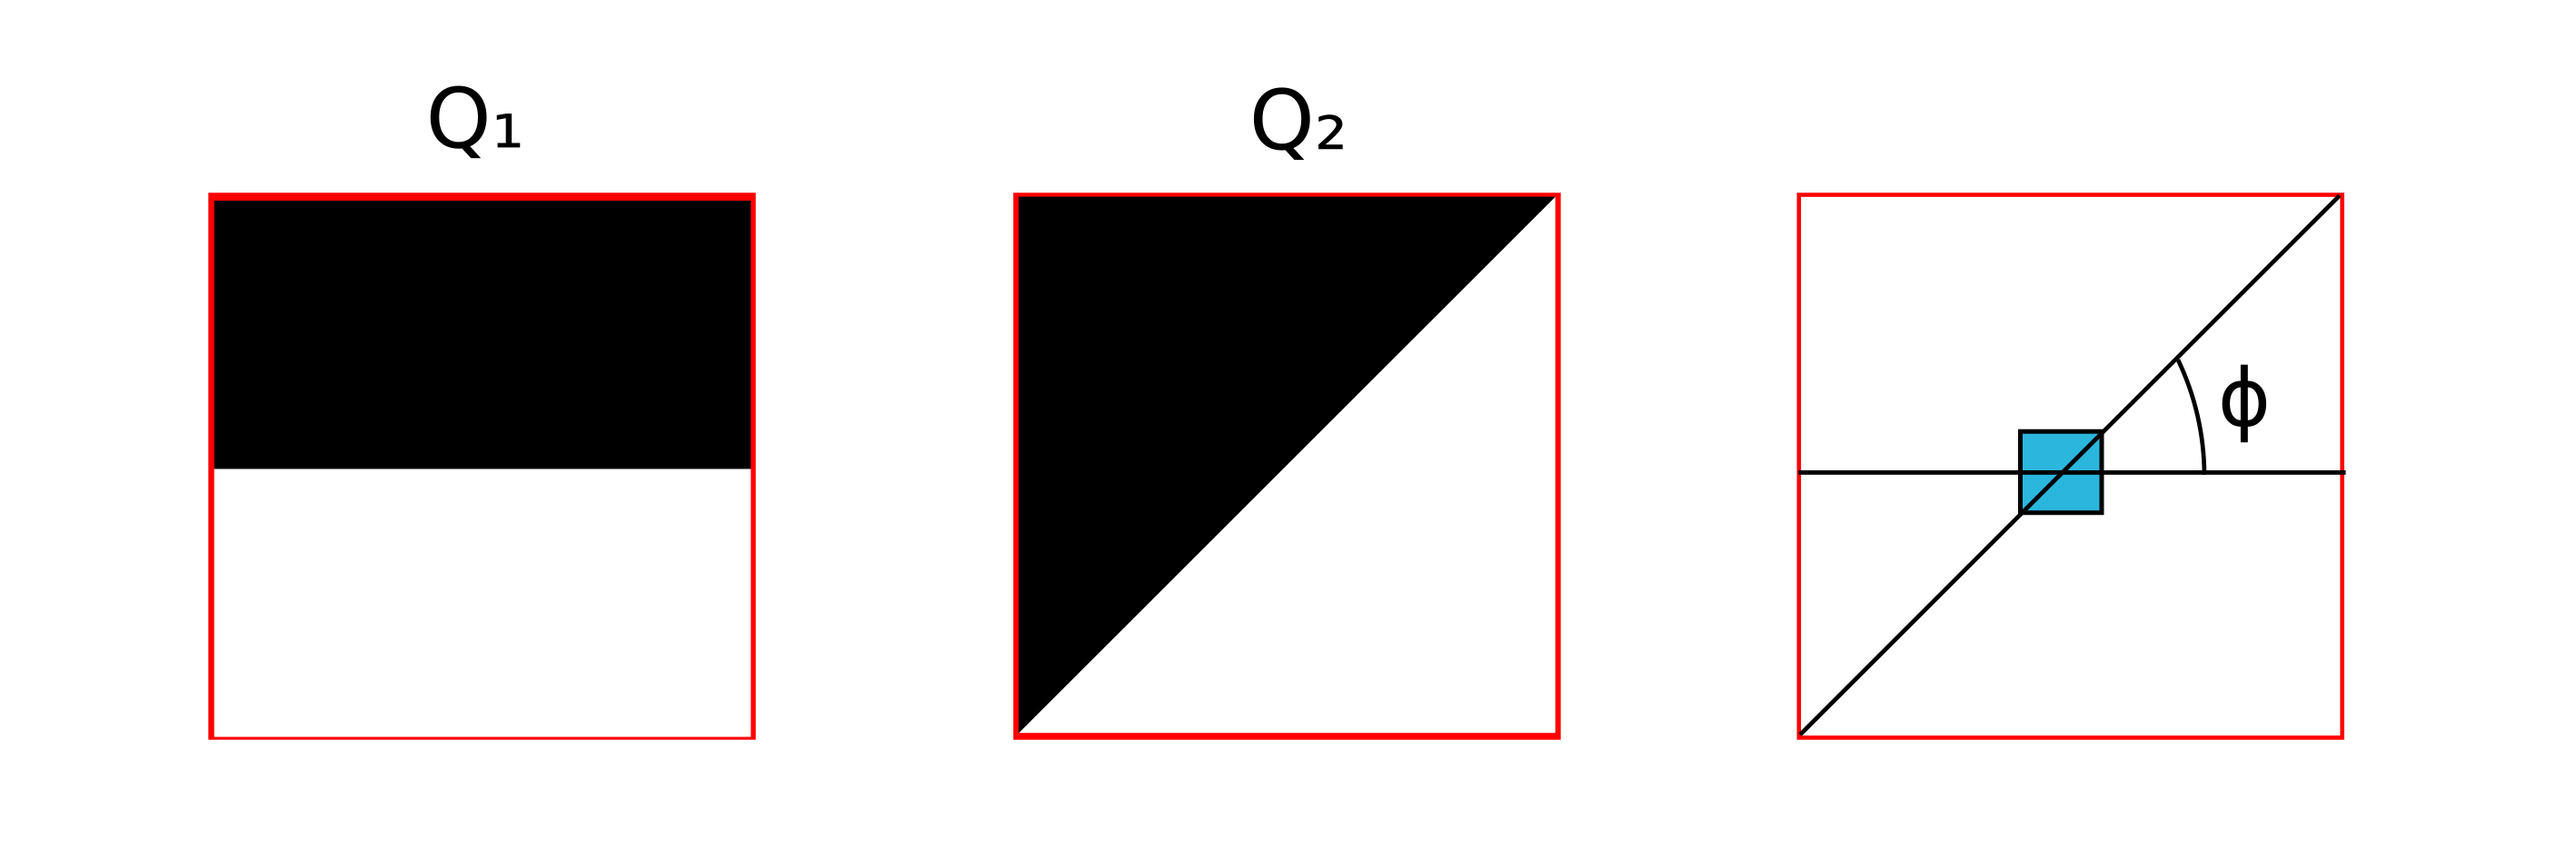
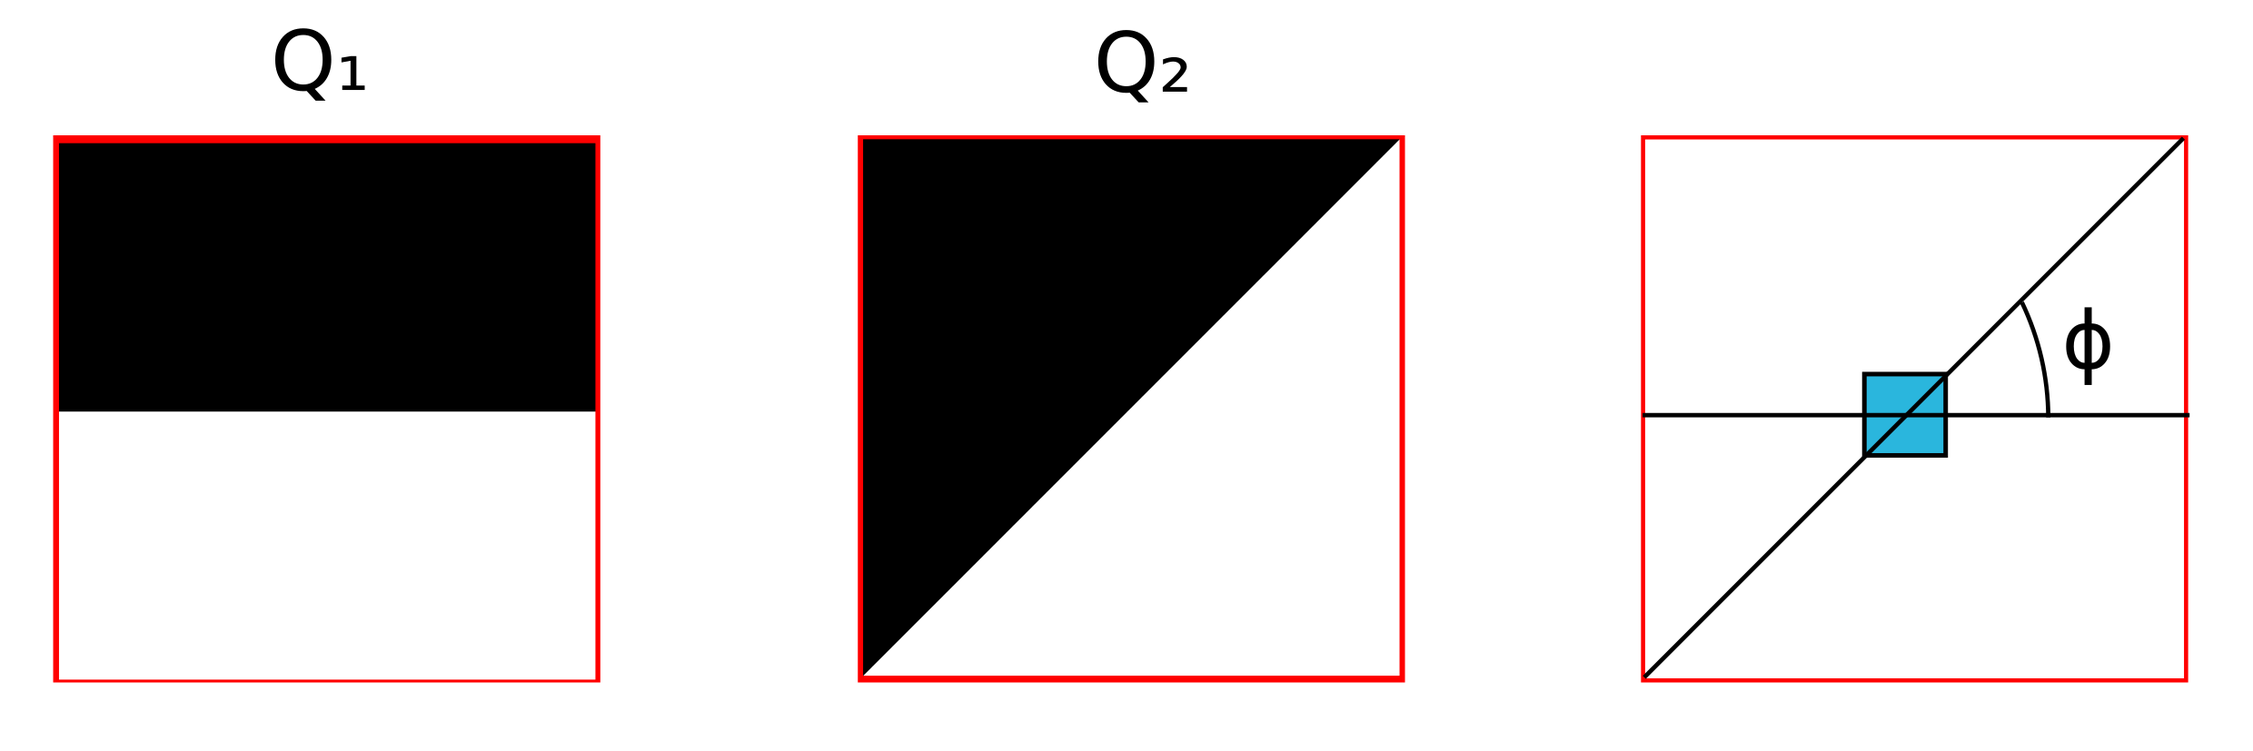
Change sizes of graphics

diff --git a/paper.tex b/paper.tex
@@ -365,7 +365,7 @@ $F_{sss}(r_1, r_2, \theta)$ and fix $\theta = \pi/2$. This leads us to a
 sampling pattern shown on \cref{fig:Fsss-pattern}
 \begin{figure}
   \centering
-  \includegraphics[width=0.8\linewidth]{images/pattern.png}
+  \includegraphics[width=0.6\linewidth]{images/pattern.png}
   \caption[]{Sampling pattern used for calculation of $F_{sss}$ in our
     implementation is a right triangle with fixed catets $r_1$ and $r_2$.
     Patterns can lie in planes $XY$ (as on the picture), $XZ$ or $YZ$. This
@@ -408,7 +408,7 @@ $30.45849$ in 2D and $172.96232$ in 3D case.
 
 \begin{figure}
   \centering
-  \includegraphics[width=0.8\linewidth]{images/experiment-setup.png}
+  \includegraphics[width=\linewidth]{images/experiment-setup.png}
   \caption[]{Left, center: images $Q_1$ and $Q_2$ used in the demonstration of
     approximation for $1 / \sin \phi$. Right: Interfaces between phases are
     line segments which intersect each other at angle $\phi$. Shaded area is
@@ -424,7 +424,7 @@ $1/\sin \phi$. As can be seen on \cref{fig:filter-comparison} $H'$ does this job
 better than $H$. Why this is important will be explained in \cref{sec:fss-2d}.
 \begin{figure}
   \centering
-  \includegraphics[width=0.8\linewidth]{images/filter-comparison.png}
+  \includegraphics[width=0.6\linewidth]{images/filter-comparison.png}
   \caption[]{Estimation of $1/\sin\phi$ by filters $H$ and $H'$ for binary
     images on \cref{fig:experiment-setup}.}
   \label{fig:filter-comparison}
@@ -455,7 +455,7 @@ $F_{sss}$ functions for two- and three-dimensional sets with smooth boundary.
 \label{sec:fss-2d}
 \begin{figure}
   \centering
-  \includegraphics[width=0.8\linewidth]{images/Fss.png}
+  \includegraphics[width=0.6\linewidth]{images/Fss.png}
   \caption[]{Illustration of how $F_{ss}(\bm{r})$ is calculated. The interface
     between solid and void phases is a solid black curve. This interface
     translated by the vector $\bm{r}$ is show as a red solid curve. Support of
@@ -479,7 +479,7 @@ boundary $\Gamma$.
 
 \begin{figure}
   \centering
-  \includegraphics[width=0.8\linewidth]{images/fss-zoomed.png}
+  \includegraphics[width=0.6\linewidth]{images/fss-zoomed.png}
   \caption[]{Zoomed image of intersection between the interface $\Gamma$ and its
     translated version $\Gamma'$. $\phi$ is an angle between tangent lines to
     the interfaces. Surface of dashed area is
@@ -841,21 +841,21 @@ thus obtained.
 
 \subsection{Influence of filter $H'$ on computation accuracy}
 \label{sec:influence}
-\begin{figure*}
+\begin{figure*}[!hpt]
   \centering
   \subfigure[Surface-surface function calculated for a ball with radius
     $R = 0.24$. Image dimensions are  $450 \times 450 \times 450$.]{
-    \includegraphics[width=0.3\linewidth]{images/ball-3d-ss.png}
+    \includegraphics[width=0.45\linewidth]{images/ball-3d-ss.png}
     \label{fig:fss-ball}}
   \hfill
   \subfigure[Surface-void function calculated for a disk with radius
     $R = 0.2$. Image dimensions are $2000 \times 2000$.]{
-    \includegraphics[width=0.3\linewidth]{images/fsv-disk.png}
+    \includegraphics[width=0.45\linewidth]{images/fsv-disk.png}
     \label{fig:fsv-disk}}
-  \hfill
+  \vskip\baselineskip
   \subfigure[Surface-void function calculated for a ball with radius
     $R = 0.2$. Image dimensions are $300 \times 300 \times 300$.]{
-    \includegraphics[width=0.3\linewidth]{images/fsv-ball.png}
+    \includegraphics[width=0.45\linewidth]{images/fsv-ball.png}
     \label{fig:fsv-ball}}
   \caption[]{Comparison of filters $H$ and $H'$ for cases in which newly
     developed algorithms \cref{sec:fss-2d}, \cref{sec:fsss-3d} are not
